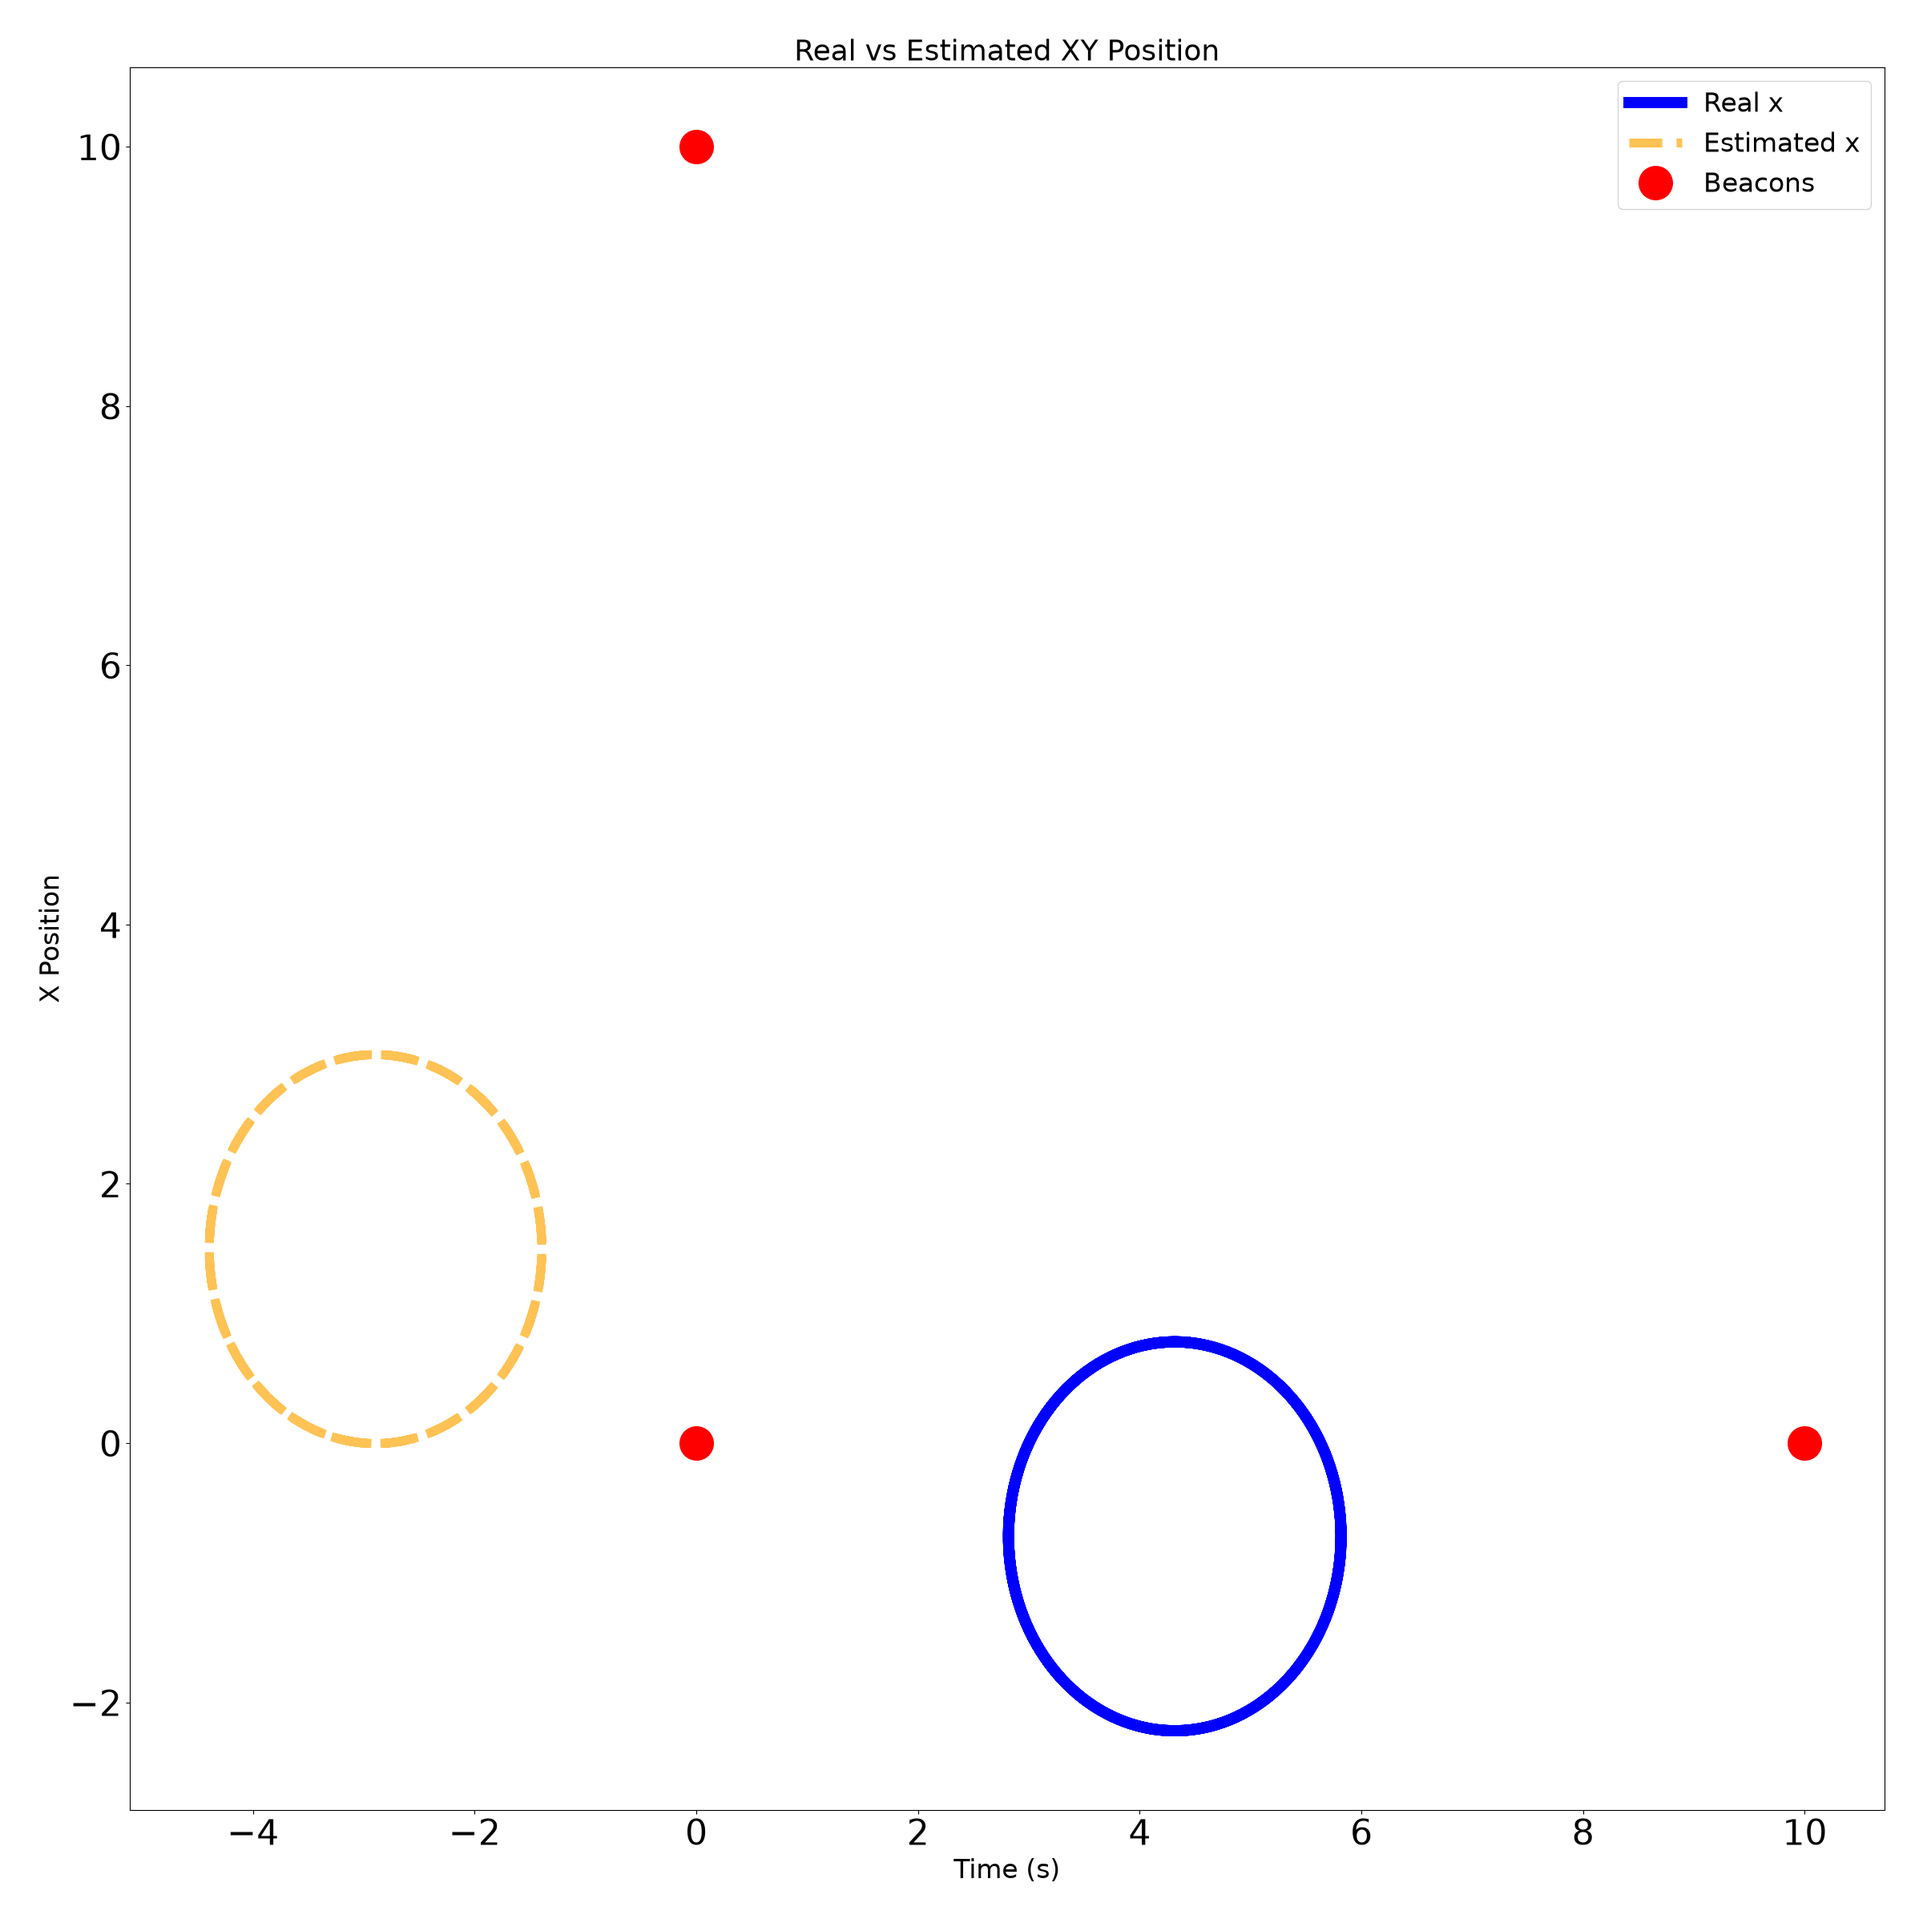
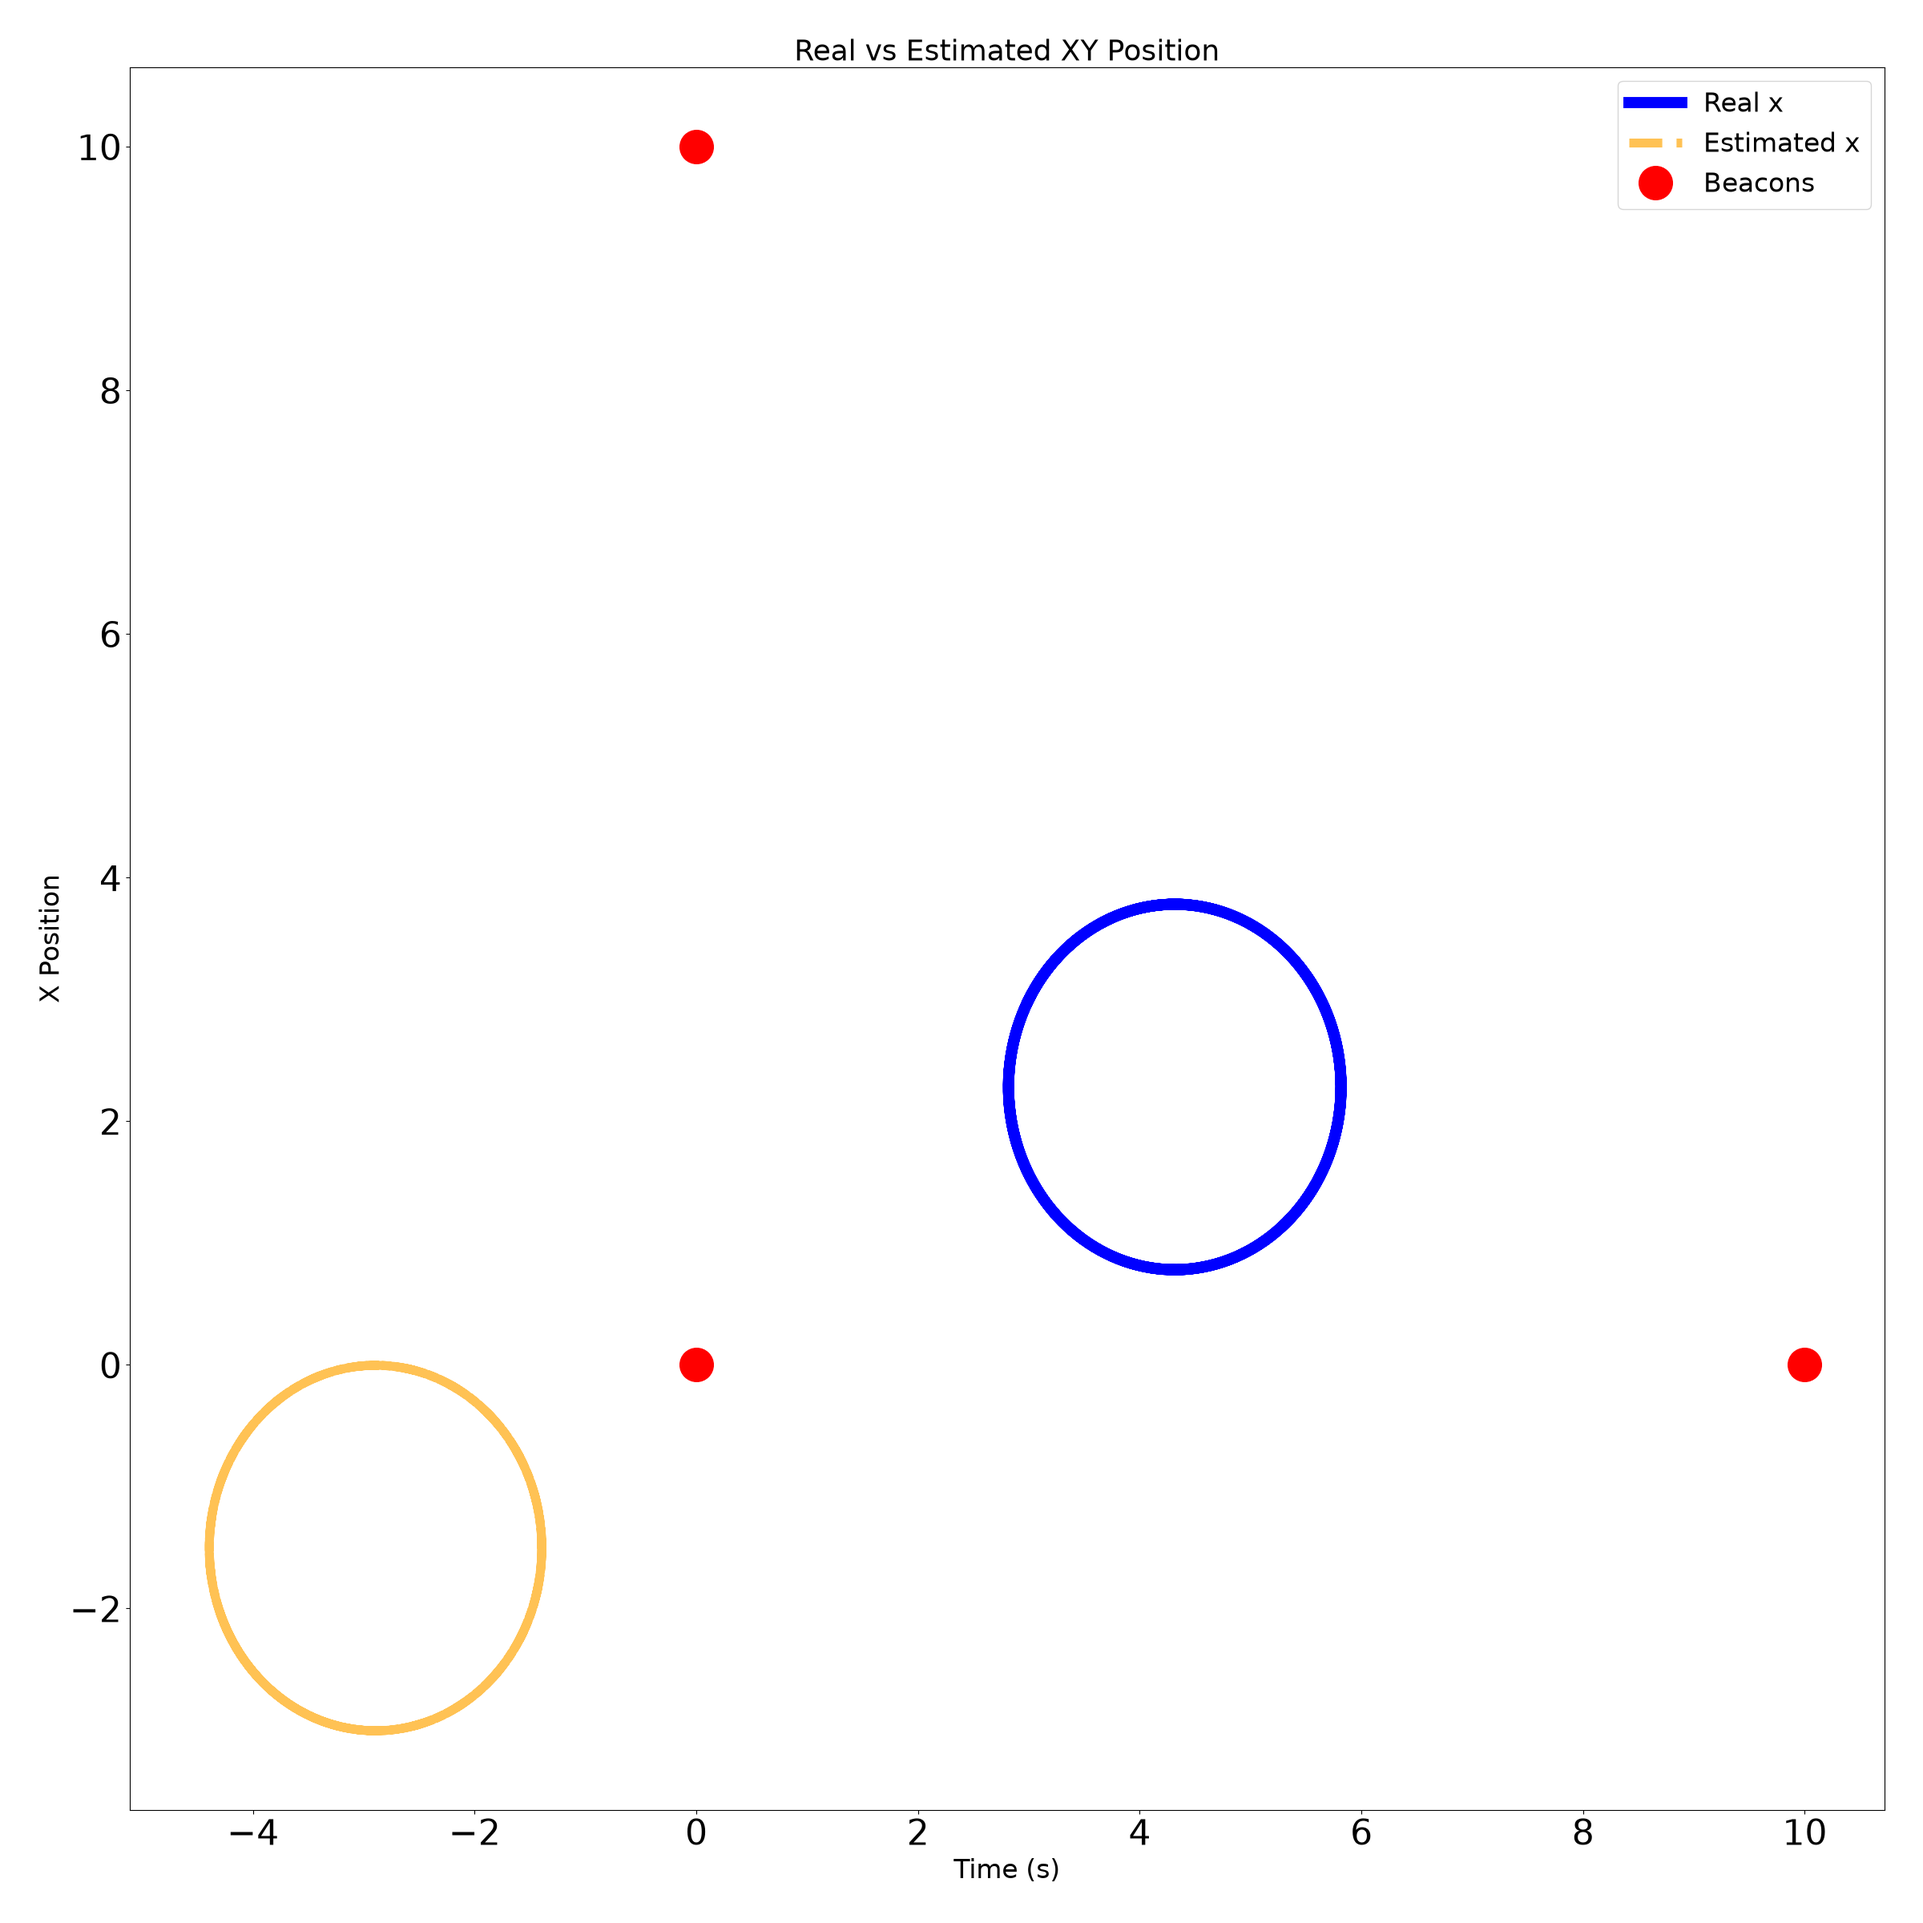
fix error xi

diff --git a/desafio/fase1_mundo_perfeito.py b/desafio/fase1_mundo_perfeito.py
@@ -27,7 +27,7 @@ def theta(t, theta_i):
   return 2 * t + theta_i
 
 def x_t(t, x_i, theta_i):
-  return (v/omega) * (np.sin(2 * t + theta_i) - np.sin(theta_i)) 
+  return (v/omega) * (np.sin(2 * t + theta_i) - np.sin(theta_i)) + x_i
 
 def y_t(t, y_i, theta_i):
   return (-v/omega) * (np.cos(2 * t + theta_i) - np.cos(theta_i)) + y_i 
